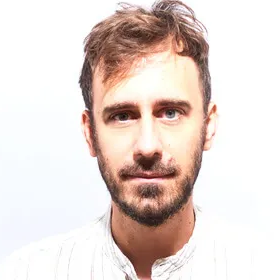
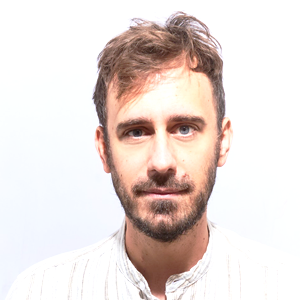
Animation tweak

Changed region(s): [[0.2571, 0.0, 0.8, 1.0], [0.3143, 0.9429, 0.3714, 1.0], [0.6857, 0.7429, 0.7143, 0.7714]]

diff --git a/app/ui/project/modules/HeroHomepage/index.jsx b/app/ui/project/modules/HeroHomepage/index.jsx
@@ -39,7 +39,11 @@ function HeroHomepage() {
 							>
 								... But still{' '}
 								<span className={styles['pop']}>
-									POP <EmojiSwap initial="🎈" after="💥" delay={3000} />
+									<motion.span
+										initial={{ opacity: 0 }}
+										animate={{ opacity: 1 }}
+										transition={{ duration: 0.6, delay: 3 }}
+									>POP</motion.span> <EmojiSwap initial="🎈" after="💥" delay={3000} />
 								</span>
 							</motion.span>
 						</p>

diff --git a/app/ui/project/components/Profile/index.jsx b/app/ui/project/components/Profile/index.jsx
@@ -13,7 +13,7 @@ function Profile() {
 
 	const src = mounted && resolvedTheme === 'dark'
 		? '/images/profile-alt-exp.png'
-		: '/images/profile-alt-exp-inv.png'
+		: '/images/profile.png'
 
 	return (
 		<div className={styles.profile}>